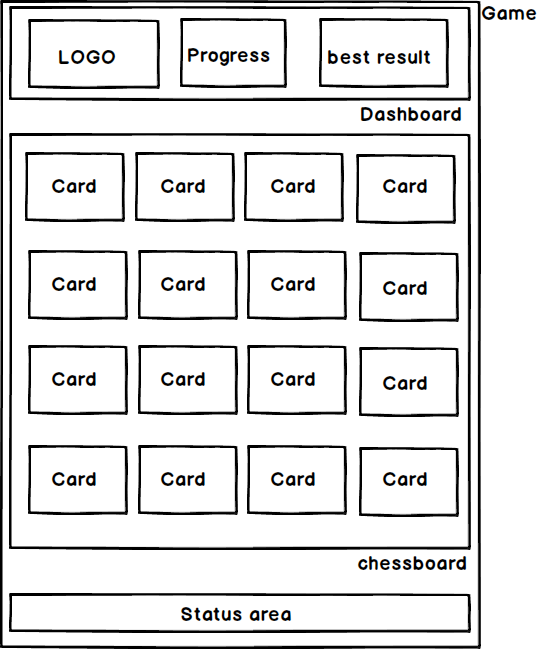
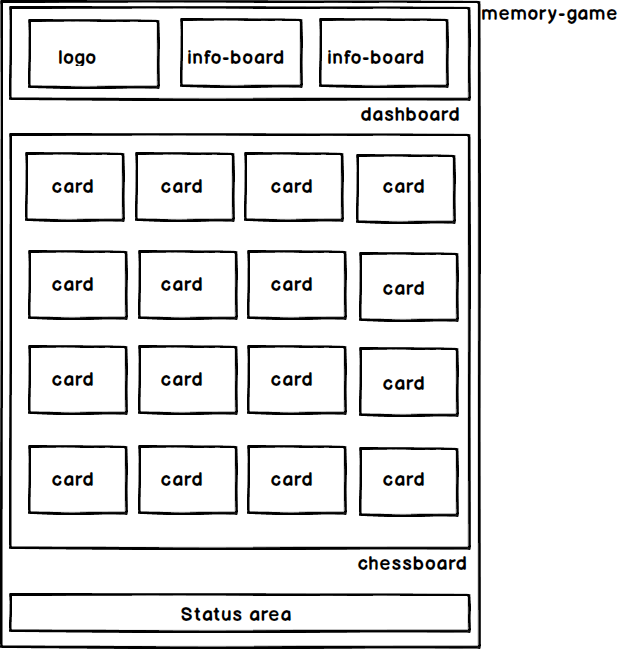
update docs

diff --git a/README.md b/README.md
@@ -3,9 +3,9 @@ angular2-memory-game
 ![][david-url]
 ![][license-url]
 
-A tiny game written in `angular2`. It's inspired by IgorMinar's [Memory-Game](https://github.com/IgorMinar/Memory-Game). You can view the online demo [here](http://leftstick.github.io/angular2-memory-game).
+A tiny game written in `angular2`. It's inspired by IgorMinar's [Memory-Game](https://github.com/IgorMinar/Memory-Game). You can view the online demo [here](https://leftstick.github.io/angular2-memory-game).
 
-We choose [webpack](http://webpack.github.io/) as bundling tool taking the place of runtime loading via `System.js`.
+We choose [webpack](http://webpack.github.io/) as bundling tool taking the place of `System.js`.
 
 ## Components Tree ##
 
@@ -14,23 +14,66 @@ We choose [webpack](http://webpack.github.io/) as bundling tool taking the place
 
 ## Components break down ##
 
-1. `Game`, the whole game board
-2. `Dashboard`, the panel on the top, including "logo", "progress", "best result"
-3. `Logo`, on the left of `Dashboard`, showing the game Logo
-4. `MatchInfo`, on the center of `Dashboard`, showing the current matching information
-5. `Score`, on the right of `Dashboard`, showing the best result
-6. `Chessboard`, on the center of `Game`, the playing area
-7. `Card`, each card in the `Chessboard`
-8. `PlayStatus`, the footer part, displaying current status of game
+1. `memory-game`, the whole game view
+2. `dashboard`, the panel on the top, including "logo", "remains", "top"
+3. `logo`, on the left of `dashboard`, showing the game Logo
+4. `info-board`, on the center of `dashboard`, showing the current matching information(`Remains`)
+5. `info-board`, on the right of `dashboard`, showing the best result(`Top`)
+6. `chessboard`, on the center of `memory-game` view, the playing area
+7. `card`, each card in the `chessboard`
+8. `status`, the footer part, displaying current status of game
 
 ## File Structure ##
 
 ```
 angular2-memory-game
+├── img
+│   ├── ...
+│   └── zeppelin.png
+├── ts
+│   ├── core
+│   │   ├── declare
+│   │   │   └── static.ts
+│   │   ├── ext
+│   │   │   ├── polyfills.ts
+│   │   │   └── vendor.ts
+│   │   └── helper
+│   │       ├── array.ts
+│   │       ├── event.ts
+│   │       └── object.ts
+│   ├── game
+│   │   ├── components
+│   │   │   ├── chessboard
+│   │   │   │   ├── card.co.ts
+│   │   │   │   └── index.ts
+│   │   │   ├── dashboard
+│   │   │   │   ├── info.board.co.ts
+│   │   │   │   ├── logo.co.ts
+│   │   │   │   └── index.ts
+│   │   │   └── status
+│   │   │       └── index.ts
+│   │   ├── memory.game.co.ts
+│   │   └── index.ts
+│   ├──store
+│   │   ├── action
+│   │   │   └── index.ts
+│   │   ├── index.ts
+│   │   ├── model
+│   │   │   ├── card.ts
+│   │   │   ├── state.ts
+│   │   │   └── status.ts
+│   │   └── reducer
+│   │       └── index.ts
+│   └── index.ts
+├── index.html
+├── package.json
+├── tsconfig.json
+├── webpack.config.common.js
+├── webpack.config.js
+└── webpack.config.prod.js
 ```
 
-
-## Want Having a try locally? ##
+## Want to try locally? ##
 
 ```bash
 #cloning code
